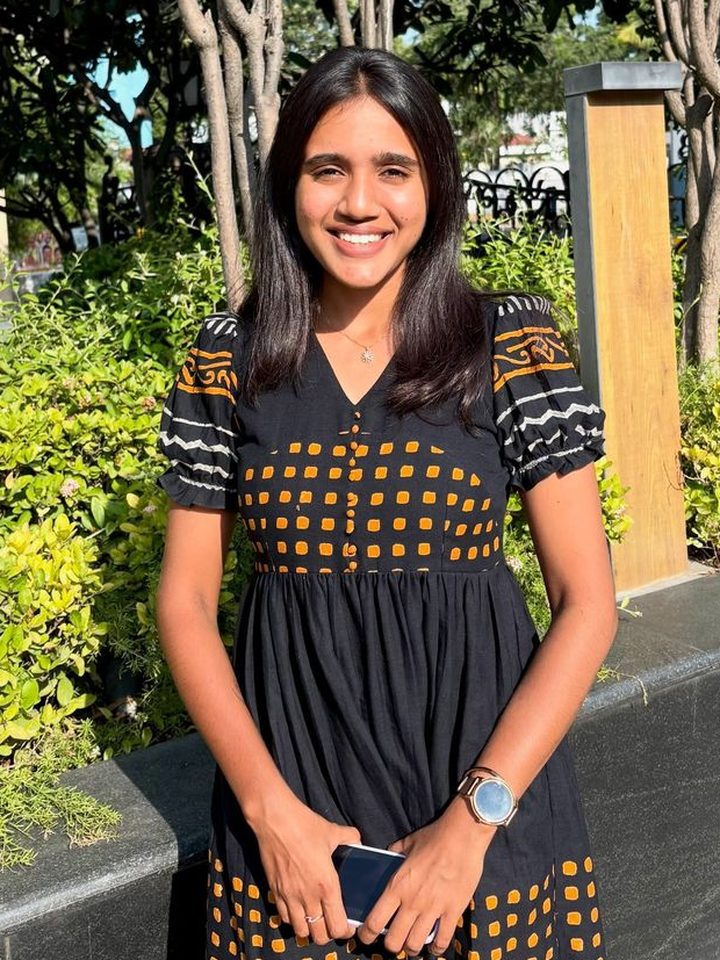
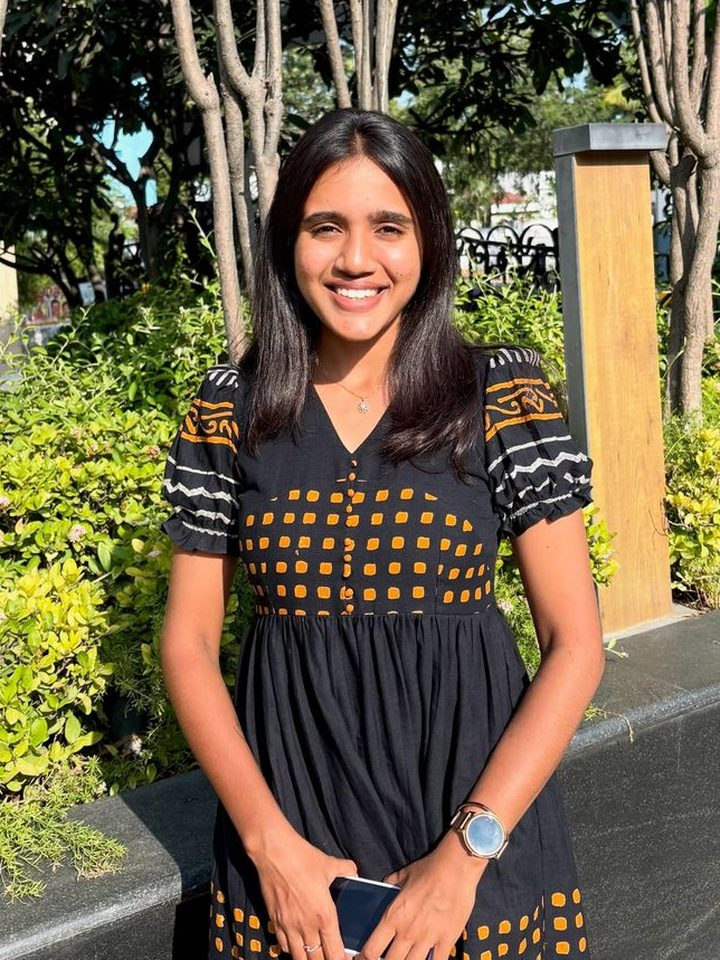
Align the nine looks on the eye line with camera-facing photos only
Each look now uses the photo where she faces the camera (lowest head
yaw from face landmarks). Crops are scaled by eye distance and placed
so the eye line sits at the same height in every panel. Manjal and
Vaanam have no camera-facing photo, so Summer Jamdani and Banarasi
take their places.

diff --git a/script.js b/script.js
@@ -1,6 +1,6 @@
 const LOOKS = ["maroon", "manjal", "cottoncandy", "rasagulla", "vaanam", "lavender", "comfy", "organza", "vintage",
   "hakoba", "silkmaxi", "oviyam", "banarasi", "chennur"];
-const FEEL = ["maroon", "manjal", "rasagulla", "cottoncandy", "vaanam", "lavender", "comfy", "vintage", "silkmaxi"];
+const FEEL = ["maroon", "rasagulla", "cottoncandy", "lavender", "comfy", "vintage", "silkmaxi", "summer", "banarasi"];
 const WALL_REELS = ["floralmaxi", "organza", "rasagulla", "banarasi", "cottoncandy", "hakoba"];
 const DROP = ["maroon", "rasagulla", "vaanam", "lavender", "organza", "comfy", "vintage", "jamdani", "hakoba", "summer", "linen", "silkmaxi"].map(byId);
 
@@ -47,7 +47,7 @@ const lookWheel = new PaintedWheel($("#lookCarousel"), LOOKS.map((id) => ({ id, 
 const feelRow = $("#feelRow");
 feelRow.innerHTML = FEEL.map((id, i) => `
   <button class="feel__panel${i ? "" : " is-open"}" type="button" data-id="${id}" aria-expanded="${!i}" aria-label="${byIdName(id)}">
-    <img src="${IMG}feel/${id}.jpg" alt="" draggable="false" loading="lazy" />
+    <img src="${IMG}feel/${id}.jpg?v=3" alt="" draggable="false" loading="lazy" />
     <span class="feel__label">${byIdName(id)}<small>View the set</small></span>
   </button>`).join("");
 const feelOpen = (panel) => $$(".feel__panel", feelRow).forEach((p) => {

diff --git a/index.html b/index.html
@@ -17,7 +17,7 @@
   <link rel="preconnect" href="https://fonts.googleapis.com" />
   <link rel="preconnect" href="https://fonts.gstatic.com" crossorigin />
   <link href="https://fonts.googleapis.com/css2?family=Cormorant+Garamond:ital,wght@0,400;0,500;0,600;1,400;1,500&family=Manrope:wght@300;400;500;600;700&family=Oswald:wght@500;600&display=swap" rel="stylesheet" />
-  <link rel="stylesheet" href="styles.css?v=27" />
+  <link rel="stylesheet" href="styles.css?v=28" />
 </head>
 <body class="is-loading">
 
@@ -269,8 +269,8 @@
   <script src="https://cdnjs.cloudflare.com/ajax/libs/gsap/3.12.5/ScrollTrigger.min.js"></script>
   <script src="https://cdnjs.cloudflare.com/ajax/libs/gsap/3.12.5/Flip.min.js"></script>
   <script src="https://cdn.jsdelivr.net/npm/lenis@1.1.13/dist/lenis.min.js"></script>
-  <script src="data.js?v=27"></script>
-  <script src="carousel.js?v=27"></script>
-  <script src="script.js?v=27"></script>
+  <script src="data.js?v=28"></script>
+  <script src="carousel.js?v=28"></script>
+  <script src="script.js?v=28"></script>
 </body>
 </html>

diff --git a/collections.html b/collections.html
@@ -17,7 +17,7 @@
   <link rel="preconnect" href="https://fonts.googleapis.com" />
   <link rel="preconnect" href="https://fonts.gstatic.com" crossorigin />
   <link href="https://fonts.googleapis.com/css2?family=Cormorant+Garamond:ital,wght@0,400;0,500;0,600;1,400;1,500&family=Manrope:wght@300;400;500;600;700&family=Oswald:wght@500;600&display=swap" rel="stylesheet" />
-  <link rel="stylesheet" href="styles.css?v=27" />
+  <link rel="stylesheet" href="styles.css?v=28" />
 </head>
 <body class="page-col">
 
@@ -124,7 +124,7 @@
 
   <div class="toast" id="toast"></div>
 
-  <script src="data.js?v=27"></script>
-  <script src="collections.js?v=27"></script>
+  <script src="data.js?v=28"></script>
+  <script src="collections.js?v=28"></script>
 </body>
 </html>
